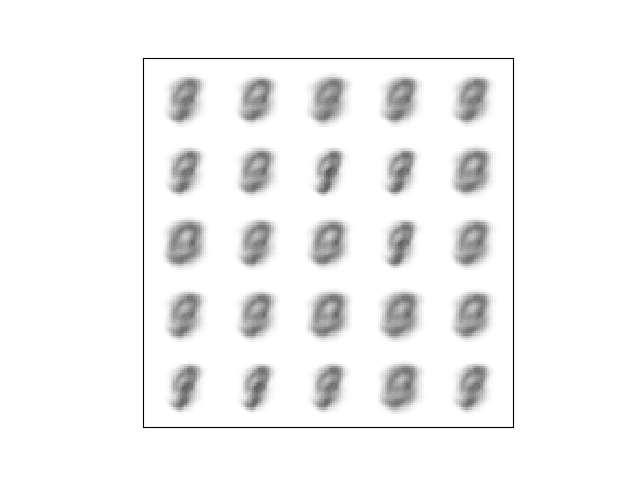
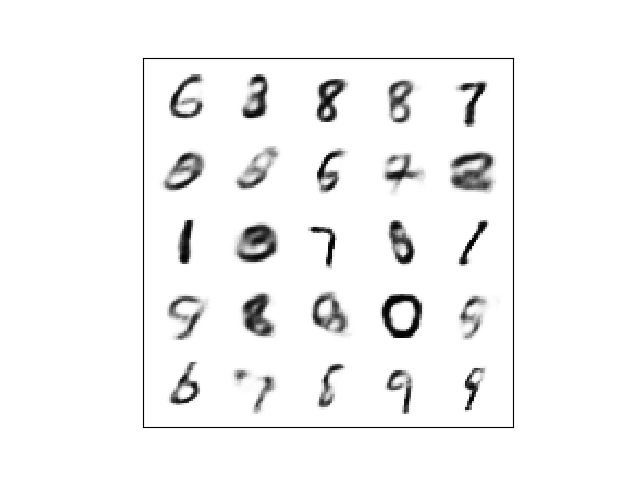
Output

diff --git a/P2/vae.py b/P2/vae.py
@@ -191,7 +191,7 @@ if __name__ == "__main__":
 
     # Training parameters
     batch_size = 200
-    num_epochs = 1
+    num_epochs = 30
     learning_rate = 0.001
 
     # ADAM parameters
